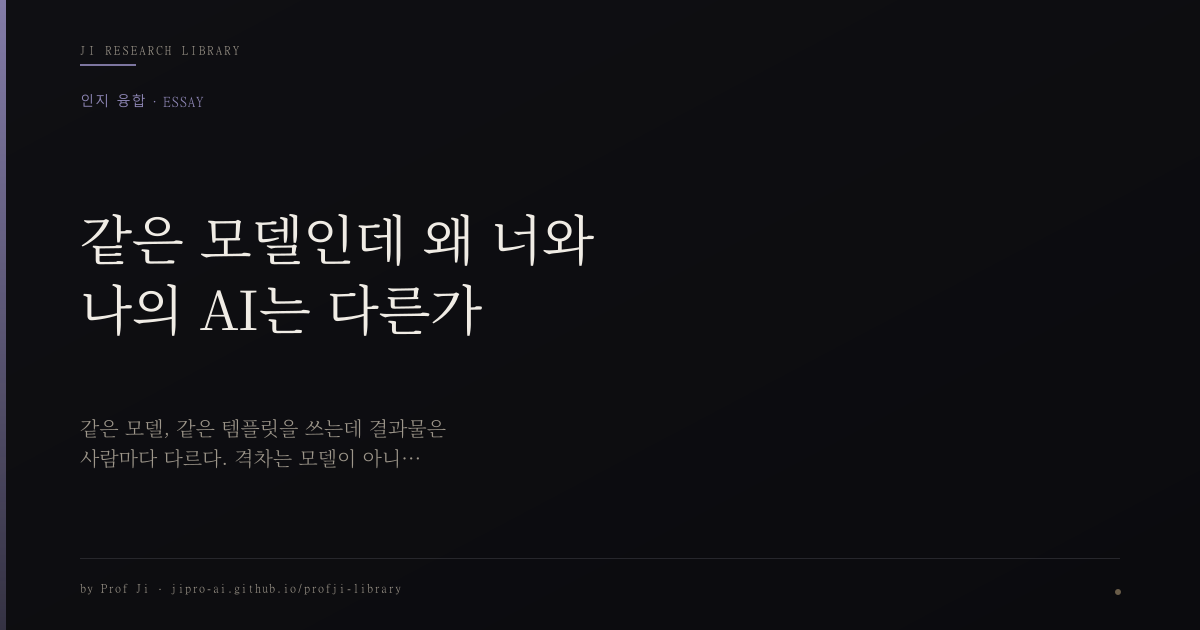
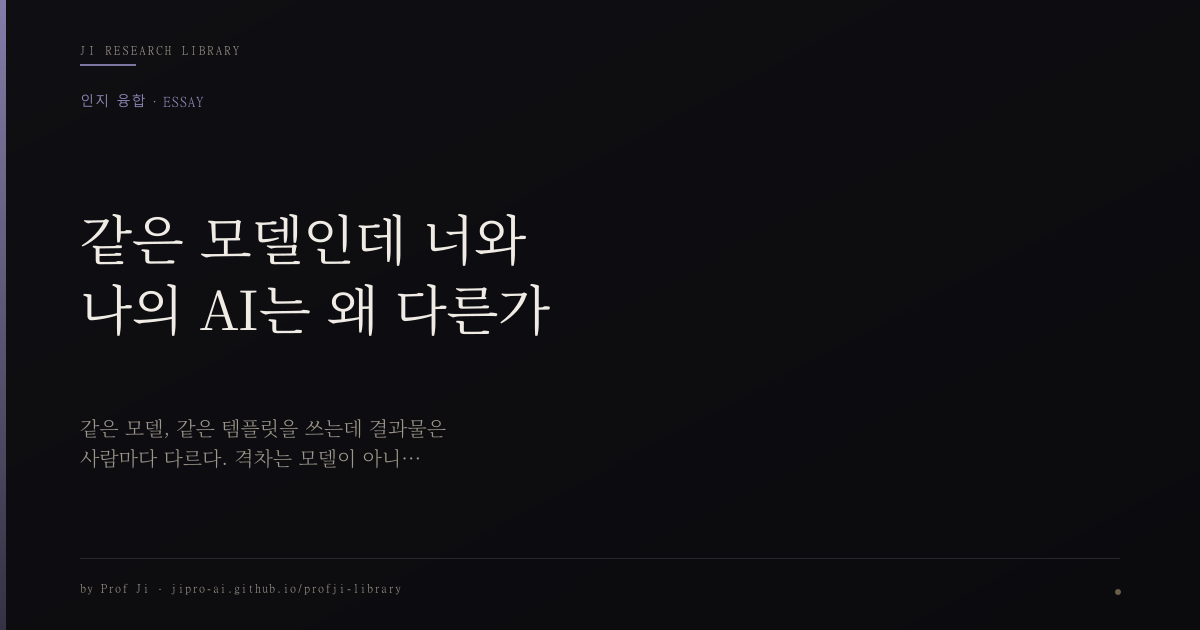
style: 제목 어순 자연화 — '왜 너와 나의 AI는 다른가' → '너와 나의 AI는 왜 다른가' (보스 선택)
의문사를 서술어 앞 자연 위치로. OG 카드 재생성 포함.

Changed region(s): [[0.2775, 0.4524, 0.4625, 0.5429], [0.3392, 0.3317, 0.4933, 0.4222]]

diff --git a/src/content/articles/same-model-different-ai.md b/src/content/articles/same-model-different-ai.md
@@ -1,5 +1,5 @@
 ---
-title: "같은 모델인데 왜 너와 나의 AI는 다른가"
+title: "같은 모델인데 너와 나의 AI는 왜 다른가"
 description: "같은 모델, 같은 템플릿을 쓰는데 결과물은 사람마다 다르다. 격차는 모델이 아니라 사용자가 쌓은 컨텍스트 자본에서 온다. AI를 RPG 캐릭터처럼 키운다는 것에 대하여."
 pubDate: "2026-07-12"
 updatedDate: "2026-07-15"